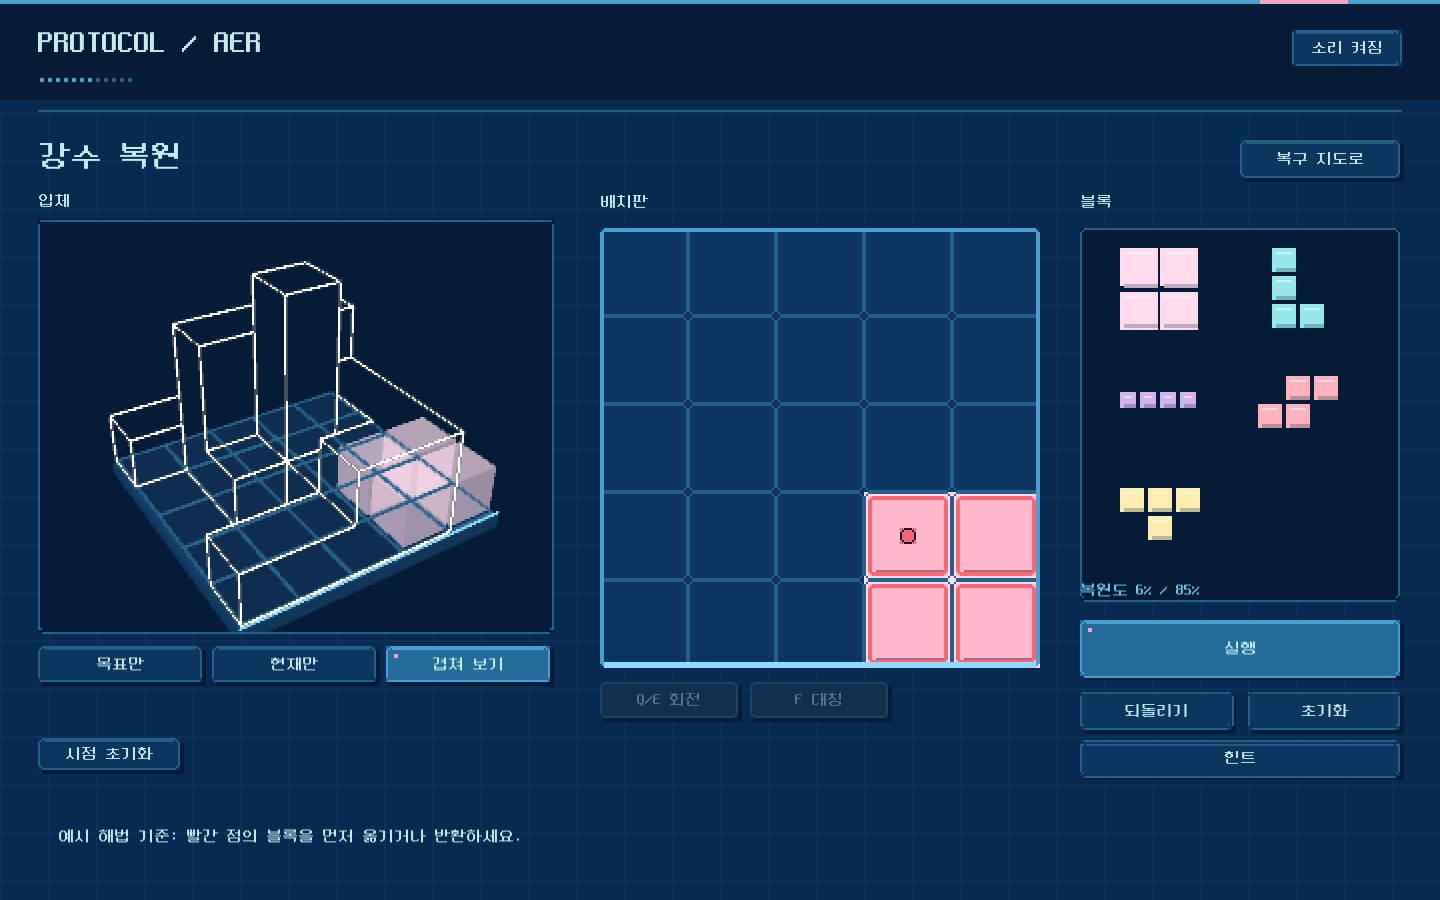
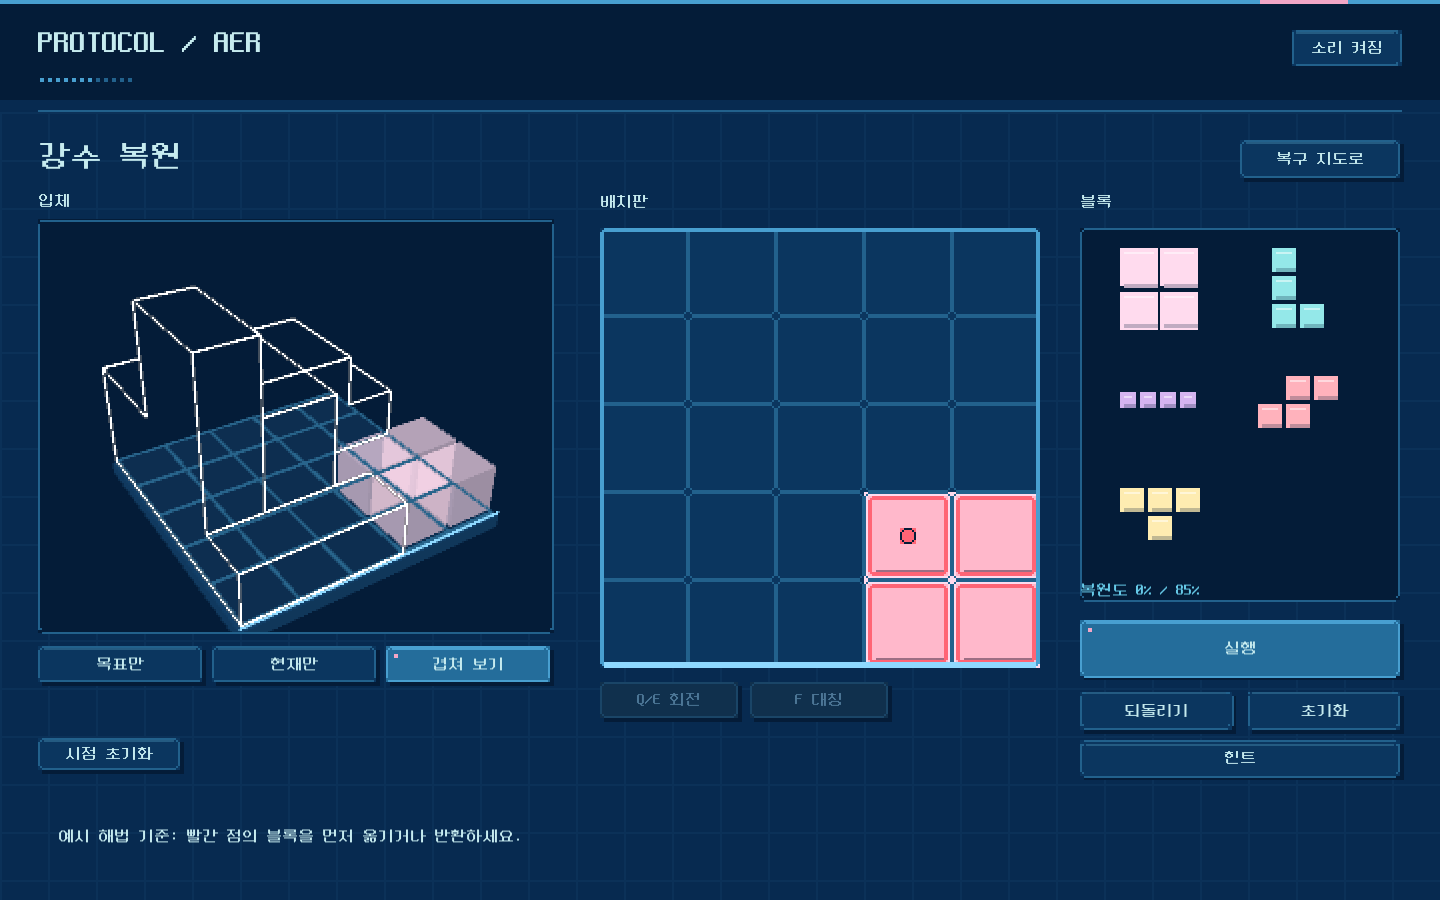
Make late-game S and T modify whole minos

Changed region(s): [[0.0625, 0.28, 0.3438, 0.6533], [0.2812, 0.5911, 0.3125, 0.6222]]

diff --git a/Assets/Editor/AerBuilder.cs b/Assets/Editor/AerBuilder.cs
@@ -65,7 +65,7 @@ public static class AerBuilder
             if(stage.Complete(missing)||stage.RequiredMinoUsed(missing))throw new Exception("New mino requirement bypassed");
         }
         var wind=AerStages.All[10];int windVolume=0;foreach(int height in wind.Target)windVolume+=height;
-        if(windVolume!=17||windVolume%4==0||wind.Allows(0))throw new Exception("Wind target must intrinsically require S: positive-only volume is a multiple of four");
+        if(windVolume!=14||windVolume%4==0||wind.Allows(0))throw new Exception("Wind target must intrinsically require S: positive-only volume is a multiple of four");
         var oldWindExploit=new EveningBoard();
         foreach(var step in new[]{new AerStage.Step(3,0,0,2),new AerStage.Step(4,1,1),new AerStage.Step(3,1,2,2),new AerStage.Step(3,2,2,2)})oldWindExploit.TryPlace(step.Action,step.Cells(),out _);
         if(wind.Differences(oldWindExploit)==0||wind.Complete(oldWindExploit))throw new Exception("Old S-free wind reconstruction still accepted");
@@ -94,18 +94,36 @@ public static class AerBuilder
         var unlimited=new EveningBoard();for(int i=0;i<100;i++)if(!unlimited.TryPlace(4,(Vector2Int[])EveningBoard.Shapes[4].Clone(),out _))throw new Exception("Unexpected piece cap");
         if(unlimited.MaxHeight!=100)throw new Exception("Unlimited overlap failed");
         var effectTest=new EveningBoard();effectTest.TryPlace(0,(Vector2Int[])EveningBoard.Shapes[0].Clone(),out _);
-        if(effectTest.MaxHeight!=2)throw new Exception("T mino must add 2");
-        var combined=new[]{new AerStage.Step(4,1,1),new AerStage.Step(1,0,1)};
+        effectTest.TryPlace(1,(Vector2Int[])EveningBoard.Shapes[1].Clone(),out _);
+        if(effectTest.MaxHeight!=0||effectTest.Voxels().Count!=0)throw new Exception("S/T operators must not create their own volume");
+        var inverted=new EveningBoard();
+        foreach(var s in new[]{new AerStage.Step(4,1,1),new AerStage.Step(1,0,1)})inverted.TryPlace(s.Action,s.Cells(),out _);
+        if(inverted.OutputOf(inverted.Pieces[0])!=-1||inverted.Heights()[2,2]!=0)throw new Exception("S must reverse all four ordinary cells, including cells outside its footprint");
+        var amplifier=new EveningBoard();
+        foreach(var s in new[]{new AerStage.Step(4,1,1),new AerStage.Step(0,1,1)})amplifier.TryPlace(s.Action,s.Cells(),out _);
+        if(amplifier.OutputOf(amplifier.Pieces[0])!=2||amplifier.Heights()[1,2]!=2||amplifier.Heights()[3,1]!=0)throw new Exception("T must amplify the whole ordinary mino but not fill its own empty cells");
+        amplifier.TryPlace(0,new AerStage.Step(0,1,1).Cells(),out _);
+        if(amplifier.OutputOf(amplifier.Pieces[0])!=2||amplifier.MaxHeight!=2)throw new Exception("Repeated T must not amplify recursively");
+        foreach(var v in amplifier.Voxels())if(v.Action!=4||v.PieceId!=amplifier.Pieces[0].Id)throw new Exception("Amplified voxels must retain their ordinary source mino");
+        var combined=new[]{new AerStage.Step(4,1,1),new AerStage.Step(1,0,1),new AerStage.Step(0,1,1),new AerStage.Step(4,2,2)};
         var forward=new EveningBoard();var reverse=new EveningBoard();
         foreach(var s in combined)forward.TryPlace(s.Action,s.Cells(),out _);
         for(int i=combined.Length-1;i>=0;i--)reverse.TryPlace(combined[i].Action,combined[i].Cells(),out _);
-        for(int x=0;x<5;x++)for(int y=0;y<5;y++)if(forward.Heights()[x,y]!=reverse.Heights()[x,y])throw new Exception("Subtraction must be order independent");
-        if(forward.Heights()[1,1]!=0||forward.Heights()[2,2]!=1)throw new Exception("S mino must subtract one and clamp final height to zero");
+        for(int x=0;x<5;x++)for(int y=0;y<5;y++)if(forward.Heights()[x,y]!=reverse.Heights()[x,y])throw new Exception("Modifier effects must be placement-order independent");
+        if(forward.OutputOf(forward.Pieces[0])!=-2||forward.OutputOf(forward.Pieces[3])!=2||forward.Heights()[2,2]!=0||forward.Heights()[3,3]!=2)throw new Exception("S+T must produce -2 without chaining through neighboring minos");
+        forward.TryPlace(1,new AerStage.Step(1,0,1).Cells(),out _);forward.TryPlace(0,new AerStage.Step(0,1,1).Cells(),out _);
+        if(forward.OutputOf(forward.Pieces[0])!=-2||forward.OutputOf(forward.Pieces[3])!=2)throw new Exception("Duplicate modifiers must apply only once");
         foreach(var voxel in forward.Voxels())if(voxel.Action!=4)throw new Exception("Voxel source color lost");
-        var amplifier=new EveningBoard();amplifier.TryPlace(0,(Vector2Int[])EveningBoard.Shapes[0].Clone(),out _);foreach(var v in amplifier.Voxels())if(v.Action!=0)throw new Exception("T voxel color lost");
+        foreach(int index in new[]{11,12})
+        {
+            var board=new EveningBoard();foreach(var step in AerStages.All[index].Solution)board.TryPlace(step.Action,step.Cells(),out _);
+            bool negativeDouble=false,positiveDouble=false;
+            foreach(var piece in board.Pieces){negativeDouble|=board.OutputOf(piece)==-2;positiveDouble|=board.OutputOf(piece)==2;}
+            if(!negativeDouble||!positiveDouble)throw new Exception("Late stages must demonstrate both amplified positive and inverted minos");
+        }
         var swatches=new[]{"FEECB1","FFB2BC","D4B4EF","94E8E9","FFDBEE"};
         for(int i=0;i<5;i++)if(ColorUtility.ToHtmlStringRGB(EveningBoard.Colors[i])!=swatches[i])throw new Exception("Palette mismatch");
-        Debug.Log("AER_RULES_PASSED: 13 solutions, exact/85% matching, unlocks, required effects, unlimited supply, palette, source colors, S/T effects and boundaries");
+        Debug.Log("AER_RULES_PASSED: 13 solutions; whole-mino inversion/amplification; -2 combinations; no stacking/chaining; order independence; source colors; unlocks and required effects");
     }
 }
 #endif

diff --git a/Assets/Scripts/ProtocolAer.cs b/Assets/Scripts/ProtocolAer.cs
@@ -504,6 +504,12 @@ public sealed class ProtocolAer:MonoBehaviour
             var top=board.TopAt(new Vector2Int(x,y));Color color=top==null?Panel:EveningBoard.Colors[top.Action];
             Fill(r,top==null?Panel:Color.Lerp(color,Deep,Mathf.Min(.36f,Mathf.Max(0,n-1)*.09f)));Border(r,Line);
             if(top!=null){Fill(new Rect(r.x+6,r.y+6,76,4),color);Fill(new Rect(r.x+6,r.y+10,4,68),color);Fill(new Rect(r.x+12,r.yMax-10,70,4),Color.Lerp(color,Deep,.5f));}
+            if(top!=null&&top.Action>=2)
+            {
+                int output=board.OutputOf(top);
+                if(output<0)Fill(new Rect(r.x+12,r.y+14,16,4),Hex("FF6475"));
+                if(Math.Abs(output)==2){Fill(new Rect(r.xMax-24,r.y+12,4,12),Hex("FEECB1"));Fill(new Rect(r.xMax-16,r.y+12,4,12),Hex("FEECB1"));}
+            }
             if(evaluated&&n!=Stage.Target[x,y])Border(new Rect(r.x+3,r.y+3,82,82),Pink,2);
         }
         if(held>=0&&onGrid&&!executing&&!success)
@@ -554,8 +560,8 @@ public sealed class ProtocolAer:MonoBehaviour
     {
         int a=newMino;Modal(new Rect(380,205,680,480),"",EveningBoard.Names[a]+" 미노 추가");
         DrawMino(new Rect(440,345,140,140),a);
-        string effect=a==1?"덮는 칸마다 높이 −1":a==0?"덮는 칸마다 높이 +2":"덮는 칸마다 높이 +1";
-        Text(new Rect(625,345,390,140),effect,23,Ink,true);
+        string effect=a==1?"한 칸이라도 겹친 O·L·I 전체 반전\n일반 미노의 네 칸 모두 −1\nT도 겹치면 −2 / S 자체 높이 없음\n중복 반전 없음 · 빨간 −로 표시":a==0?"한 칸이라도 겹친 O·L·I 전체 증폭\n일반 미노의 네 칸 모두 ×2\nS도 겹치면 −2 / T 자체 높이 없음\n중복 증폭 없음 · 노란 두 줄로 표시":"덮는 칸마다 높이 +1";
+        Text(new Rect(625,335,390,160),effect,20,Ink,true);
         if(Button(new Rect(420,565,600,65),"확인",true,true)){knownMinos.Add(a);newMino=-1;}
     }
     void DrawSuccess()
@@ -619,7 +625,7 @@ public sealed class ProtocolAer:MonoBehaviour
 
         EnterStage(12);newMino=-1;Select(4);onGrid=true;hover=new Vector2Int(1,1);Place();
         Select(1);hover=new Vector2Int(1,1);RefreshPlacementPreview();
-        if(placementPreview==null||placementPreview.Heights()[1,1]!=0||board.Heights()[1,1]!=1||board.Pieces.Count!=1)throw new Exception("S hover must preview subtraction without changing the plan");
+        if(placementPreview==null||placementPreview.Heights()[1,1]!=0||placementPreview.Heights()[2,2]!=0||board.Heights()[1,1]!=1||board.Pieces.Count!=1)throw new Exception("S hover must reverse the whole overlapping ordinary mino without committing");
         yield return Shot(directory,"live-S-subtraction-before-click");
         hover=new Vector2Int(4,4);RefreshPlacementPreview();
         if(placementPreview!=null||held!=1)throw new Exception("Invalid hover must hide tentative result while retaining selection");
@@ -635,13 +641,14 @@ public sealed class ProtocolAer:MonoBehaviour
         Select(3);onGrid=true;hover=new Vector2Int(2,1);RefreshPlacementPreview();Rotate(1);
         if(placementPreview==null||placementPreview.Heights()[0,1]!=1||board.Pieces.Count!=0)throw new Exception("Rotation must update the tentative 3D result");
         Mirror();if(placementPreview==null||placementPreview.Heights()[4,1]!=1)throw new Exception("Mirroring must update the tentative 3D result");
+        ReturnHeld();Select(4);hover=new Vector2Int(1,1);Place();
         Select(0);hover=new Vector2Int(1,1);RefreshPlacementPreview();
-        if(placementPreview==null||placementPreview.MaxHeight!=2||board.Pieces.Count!=0)throw new Exception("T hover must preview its doubled height");
+        if(placementPreview==null||placementPreview.MaxHeight!=2||board.MaxHeight!=1||board.Pieces.Count!=1)throw new Exception("T hover must amplify an existing ordinary mino without creating its own volume");
         HandlePuzzleClick(Preview.center);RefreshPlacementPreview();
         if(held!=0||placementPreview!=null)throw new Exception("Orbiting the 3D view must preserve the held piece and clear the board hover");
         HandlePuzzleClick(new Vector2(760,700));if(held!=0)throw new Exception("Transform controls must not cancel held pieces");
         HandlePuzzleClick(new Vector2(1055,800));
-        if(held>=0||placementPreview!=null||board.Pieces.Count!=0||cleared[12])throw new Exception("Clicking blank space must cancel without committing or clearing");
+        if(held>=0||placementPreview!=null||board.Pieces.Count!=1||cleared[12])throw new Exception("Clicking blank space must cancel without committing or clearing");
         EnterStage(0);
         Debug.Log("AER_PLACEMENT_PASSED: live noncommitting hover, movement, rotate/mirror, S/T effects, invalid-click returns and UI controls");
     }
@@ -661,7 +668,7 @@ public sealed class ProtocolAer:MonoBehaviour
                 if(hint<0||hintPieceId>=0||held!=Stage.Solution[hint].Action)throw new Exception("Hint failed to identify next missing mino");
                 int stepIndex=hint;var expected=Stage.Solution[hint].Cells();
                 RequestHint();if(hint!=stepIndex)throw new Exception("Repeated hint clicks must not skip an unplaced step");
-                if(n==12&&(hint==3||hint==6))yield return Shot(directory,"final-hint-step-"+(hint+1));
+                if(n==12&&(hint==6||hint==7))yield return Shot(directory,"final-hint-step-"+(hint+1));
                 onGrid=true;hover=hintAnchor;RefreshPlacementPreview();
                 if(!AerHints.SameCells(Candidate(),expected))throw new Exception("Hint orientation/anchor does not match the highlighted footprint");
                 int count=board.Pieces.Count;HandlePuzzleClick(Grid.position+new Vector2((hintAnchor.x+.5f)*88,(hintAnchor.y+.5f)*88));

diff --git a/Assets/Scripts/EveningBoard.cs b/Assets/Scripts/EveningBoard.cs
@@ -7,7 +7,7 @@ public sealed class EveningBoard
 {
     public const int Size=5;
     public static readonly string[] Names={"T","S","I","L","O"};
-    public static int Effect(int action)=>action==0?2:action==1?-1:1;
+    public static int Effect(int action)=>action<2?0:1;
     // Action order: T, S, I, L, O. Keep exact user-supplied swatches.
     public static readonly Color[] Colors={new Color32(0xfe,0xec,0xb1,255),new Color32(0xff,0xb2,0xbc,255),new Color32(0xd4,0xb4,0xef,255),new Color32(0x94,0xe8,0xe9,255),new Color32(0xff,0xdb,0xee,255)};
     public static readonly Vector2Int[][] Shapes={
@@ -53,18 +53,38 @@ public sealed class EveningBoard
     {for(int i=pieces.Count-1;i>=0;i--)foreach(var c in pieces[i].Cells)if(c==cell)return pieces[i];return null;}
     public List<Piece> At(Vector2Int cell)
     {var result=new List<Piece>();foreach(var p in pieces)foreach(var c in p.Cells)if(c==cell){result.Add(p);break;}return result;}
+    void ModifierMasks(out bool[,] inverter,out bool[,] amplifier)
+    {
+        inverter=new bool[Size,Size];amplifier=new bool[Size,Size];
+        foreach(var p in pieces)if(p.Action<2)foreach(var c in p.Cells)(p.Action==1?inverter:amplifier)[c.x,c.y]=true;
+    }
+    static int OutputOf(Piece piece,bool[,] inverter,bool[,] amplifier)
+    {
+        if(piece.Action<2)return 0;
+        bool reversed=false,doubled=false;
+        foreach(var c in piece.Cells){reversed|=inverter[c.x,c.y];doubled|=amplifier[c.x,c.y];}
+        return (reversed?-1:1)*(doubled?2:1);
+    }
+    // Any shared cell modifies the entire ordinary mino. S/T never modify one
+    // another or stack their own effect; masks make placement order irrelevant.
+    public int OutputOf(Piece piece)
+    {ModifierMasks(out var inverter,out var amplifier);return OutputOf(piece,inverter,amplifier);}
     public int[,] Heights()
-    {var h=new int[Size,Size];foreach(var p in pieces)foreach(var c in p.Cells)h[c.x,c.y]+=Effect(p.Action);for(int x=0;x<Size;x++)for(int y=0;y<Size;y++)h[x,y]=Math.Max(0,h[x,y]);return h;}
+    {
+        ModifierMasks(out var inverter,out var amplifier);var h=new int[Size,Size];
+        foreach(var p in pieces){int output=OutputOf(p,inverter,amplifier);foreach(var c in p.Cells)h[c.x,c.y]+=output;}
+        for(int x=0;x<Size;x++)for(int y=0;y<Size;y++)h[x,y]=Math.Max(0,h[x,y]);return h;
+    }
     public List<Voxel> Voxels()
     {
-        var heights=Heights();var result=new List<Voxel>();
+        var heights=Heights();var result=new List<Voxel>();ModifierMasks(out var inverter,out var amplifier);
         // Color positive layers by their source mino; subtraction removes top layers.
         // The evaluated height remains the order-independent sum of all effects.
         for(int x=0;x<Size;x++)for(int y=0;y<Size;y++)
         {
             int layer=0;foreach(var p in At(new Vector2Int(x,y)))
             {
-                int amount=Effect(p.Action);if(amount<=0)continue;
+                int amount=OutputOf(p,inverter,amplifier);if(amount<=0)continue;
                 for(int i=0;i<amount&&layer<heights[x,y];i++,layer++)result.Add(new Voxel(x,y,layer,p.Action,p.Id));
                 if(layer>=heights[x,y])break;
             }

diff --git a/Assets/Scripts/AerStages.cs b/Assets/Scripts/AerStages.cs
@@ -57,8 +57,8 @@ public static class AerStages
         new AerStage("첫 번째 평면","01 / FOOTPRINT","블록 하나를 배치해보세요. 평면의 네 칸이 높이 1의 입체 구조가 됩니다.",new Vector2Int(1,1)),
         new AerStage("같은 자리, 다른 높이","02 / OVERLAP","같은 자리에 두 블록을 놓아보세요. 두 번 겹친 칸은 높이 2가 됩니다.",new Vector2Int(1,1),new Vector2Int(1,1)),
         new AerStage("겹침으로 만든 계단","03 / RECONSTRUCT","",new Vector2Int(1,1),new Vector2Int(1,1),new Vector2Int(2,1)),
-        // Names introduce a local pattern at a time: offset overlap, turned L,
-        // crossing I, one subtraction, then T amplification. Tutorial is unchanged.
+        // Names introduce offset overlap, turned L, crossing I, whole-mino
+        // inversion and amplification. The tutorial and regions 1-6 are unchanged.
         new AerStage("기상 관측소","NAME-01","",new Vector2Int(0,1),new Vector2Int(1,1),new Vector2Int(1,2)),
         new AerStage("공동 건조장","NAME-02","",new Vector2Int(1,0),new Vector2Int(1,1),new Vector2Int(1,2),new Vector2Int(2,1)),
         new AerStage("온실","NAME-03","",M(4,1,1),M(4,2,2),M(3,0,1,1)),
@@ -66,12 +66,13 @@ public static class AerStages
         new AerStage("일조 복원","WEATHER-01","재현도 85% 이상",M(4,1,1),M(4,2,1),M(3,0,1),M(3,2,0,1),M(3,1,2,1),M(4,2,2)),
         new AerStage("기록 보관소","NAME-05","",M(4,1,1),M(3,0,0),M(2,0,2),M(4,2,2)),
         new AerStage("급수 관리소","NAME-06","",M(4,2,2),M(3,0,1),M(3,2,0,1),M(2,1,1,1),M(2,0,2)),
-        // 17 voxels: O/L/I alone always add multiples of 4, so S is now
-        // mathematically necessary, independently of the tutorial-use gate.
-        new AerStage("바람길 제어소","NAME-07","",M(4,1,1),M(4,2,3),M(3,0,0,2),M(2,0,2),M(4,1,1),M(1,1,1)),
-        new AerStage("환경 제어실","NAME-08","",M(4,1,1),M(3,0,0),M(2,1,3),M(1,0,1),M(0,1,0),M(4,2,2),M(2,3,0,1)),
+        // 14 voxels cannot be made by positive-only four-cell minos. Here S
+        // reverses one whole O, including cells outside S's own footprint.
+        new AerStage("바람길 제어소","NAME-07","",M(4,0,1),M(3,1,2,1),M(2,3,1,1),M(4,0,2),M(3,0,2,3),M(1,1,0)),
+        // Includes +1, +2 and -2 ordinary minos: S and T combine without chaining.
+        new AerStage("환경 제어실","NAME-08","",M(4,2,3),M(3,1,1),M(2,2,0,1),M(2,0,1),M(3,0,1),M(1,2,3),M(0,2,2,1)),
         // Weather milestones combine more regions/heights than the preceding names.
-        new AerStage("강수 복원","WEATHER-02","재현도 85% 이상",M(4,1,1),M(3,2,0),M(2,0,4),M(1,0,1),M(0,1,1),M(4,2,3),M(3,0,0,2),M(2,3,0,1))
+        new AerStage("강수 복원","WEATHER-02","복원도 85% 이상",M(4,2,0),M(3,0,3,3),M(2,0,0,1),M(4,3,0),M(3,0,2,1),M(2,1,3),M(1,3,2,1),M(0,0,2))
     };
     public static readonly int[] BuildingStages={3,4,5,6,8,9,10,11};
     static AerStage.Step M(int action,int x,int y,int turns=0)=>new AerStage.Step(action,x,y,turns);

diff --git a/docs/Development.md b/docs/Development.md
@@ -6,11 +6,11 @@ Unity 6000.3.24f1 / Windows / single-player.
 
 Animated title → terminal → optional three-step tutorial → radar map with eight buildings → names 1–4 → sunlight restoration → names 5–8 → rainfall restoration → end.
 
-Targets are generated from valid example solutions. Names require exact height matches. Weather stages require at least 85% volume intersection/union similarity. Unlocked module types have unlimited supply: the tray shows one icon per type, with no quantities. Alternative solutions are accepted. A newly introduced type must affect the resulting height map in its debut name stage. Regions refer to the eight name stages, excluding tutorial and weather stages. O only in regions 1–2; L from 3; I from 5; S from 7 (−1 per covered column); T from 8 (+2 per covered column). O/L/I add 1. Effects sum independently of placement order and final negative heights clamp to zero. System notices introduce new types. The radar has only one active ??? label; unlocked names remain visible. Weather becomes available only at the two required milestones.
+Targets are generated from valid example solutions. Names require exact height matches; weather stages require at least 85% volume intersection/union similarity. Unlocked module types have unlimited supply. A newly introduced type must change the resulting height map in its debut name stage. O appears first, L from name region 3, I from 5, S from 7 and T from 8. O/L/I normally output +1 to each of their four cells. S and T are zero-volume operators: any shared cell reverses or doubles the entire ordinary mino, including cells outside the operator footprint. Together they produce -2 per ordinary cell. Duplicate effects apply once and do not chain through other minos. All contributions are summed before clamping negative final heights to zero, independently of placement order. System notices introduce the effects and board badges show affected ordinary minos. There is one active ??? radar label; weather unlocks at the two required milestones.
 
 Name targets add offset overlaps, turned L shapes and crossing I shapes while introducing one new effect at a time. Their example solutions use 3 / 4 / 3 / 4 / 4 / 5 / 6 / 7 placements, with at most three height levels. Weather targets combine wider footprints and four height levels (6 / 8 example placements). These are design guidelines, not placement limits or a claim about the shortest possible solution. Actual perceived difficulty still benefits from player testing. The three tutorial targets remain unchanged.
 
-Windway's target now contains 17 voxels. Its available O/L/I modules each add exactly four voxels, so matching this target without S is impossible even with unlimited positive modules. The previous 16-voxel target could be reconstructed with one O and three L modules; the existing S-use completion gate already blocked that attempt, and the target itself has now been corrected as well.
+The reworked Windway target contains 14 voxels, so O/L/I alone cannot reproduce it: positive-only volume is a multiple of four. The eighth name target has 22 voxels and demonstrates both +2 and -2 ordinary minos; the final weather target has 27 voxels across all five rows/columns, with height up to four. Tutorials, names 1-6 and the first weather target are unchanged.
 
 ## Controls
 
